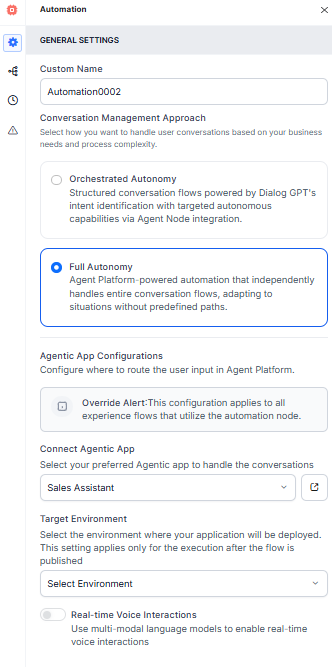
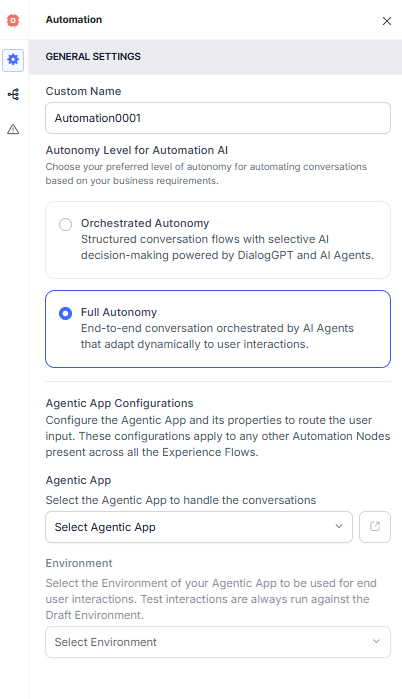
rn

diff --git a/docs/xo/release-notes/11.x/automation-ai.md b/docs/xo/release-notes/11.x/automation-ai.md
@@ -3,6 +3,56 @@
 This document provides information on the feature updates and enhancements introduced in **Automation AI** of AI for Service (XO) v11.x releases.
 
 
+
+## v11.15.0 June 30, 2025
+
+<u> Minor Release </u>
+
+<font size="4">DialogGPT</font>
+
+**Configurable Search AI Retrieval Settings**
+
+DialogGPT now allows users to configure chunk limits for Search AI retrieval, controlling the number of chunks sent to the language model for response generation. This feature optimizes token consumption and response times while providing precise control over the balance between context depth and performance.
+
+**Enhanced Discoverability for Automation Node Settings**
+
+The Automation Node’s routing settings have been relocated to Flow & Channels > Automation Routing > Routing Modes for better accessibility and visibility. This streamlined navigation enables users to quickly configure key settings, including Autonomy Level (Orchestrated Autonomy or Full Autonomy), Automation AI options, Agentic App Configurations, Connection Rules, and Error Prompts.
+
+**Batch Testing Now Supports Multi-App Routing for Universal Apps**
+
+The Batch Testing feature now supports multi-app routing, enabling users to evaluate conversational flows that span across multiple linked Virtual Assistants (apps). This enhancement aligns batch testing with real-world scenarios where conversations are dynamically routed. 
+
+**Enhancement of Batch Testing Public APIs to support creation and management of test suites**
+
+As part of the ongoing Batch Testing support for DialogGPT, several enhancements are being introduced to the public APIs. These changes ensure compatibility with new test formats, support for Universal Bots (Multi-App Routing), and maintain flexibility to handle both NLP-based and DialogGPT-based applications.
+
+<font size="4">Agent Transfer</font>
+
+**Salesforce MIAW Agent Integration Enhancements**
+
+The Salesforce MIAW Agent has been updated with new features to enhance live support experiences. These improvements aim to better prepare agents, empower end-users, and ensure consistent brand communication.
+
+Key enhancements
+
+* Metadata Transfer: Essential context, including usernames, conversation summaries, case IDs, and session details, is now automatically transferred from AI for Service to Salesforce during agent handoffs. This provides agents with immediate access to relevant information, reducing the need for users to repeat details and thereby accelerating issue resolution.
+
+* User-Controlled Session End: End-users can now conclude live agent sessions using a configurable keyword. This provides users with more control over their experience and helps reduce unnecessary agent occupancy.
+
+* Customizable Standard Responses: Default system messages displayed during handoffs and live chats, including wait times, agent join alerts, and session closure prompts, can now be customized. This ensures a consistent, branded experience aligned with user expectations.
+
+**User-Bot Conversation Summary for Live Agent Transfers**
+
+The Platform now enhances agent transfers by sending a conversation summary of the end-user and bot chat to the live agent during the transfer. This enhancement streamlines agent handoff by presenting a concise, GenAI-generated summary alongside the existing chat history link, eliminating the need for agents to navigate away from the chat window or open new pages to understand the conversation context.
+
+<font size="4">API</font>
+
+**Call ID Support in the getMessage API**
+
+To improve access to bot-user conversation history for voice interactions, the `getMessage` API now accepts `callId` as an optional query parameter, in addition to the existing `sessionId`. It aims to reduce latency and infrastructure load for high-volume customers who retrieve conversational data for analysis and auditing.
+
+
+<hr>
+
 ## v11.14.1 June 14, 2025
 
 <u> Patch Release </u>
@@ -1244,7 +1294,7 @@ Bookmarks allow users to organize and reference important information. Users can
 Add notes to highlight key points or summarize information. Notes can also be used for communication and feedback.  
 <img src="../images/xo-platform-AutomationAI-note.png" alt="Notes" title="Notes" style="border: 1px solid gray; zoom:70%;">
 
-<font size="4">Additional features in XO v11
+<font size="4">Additional features in XO v11</font>
 
 **Addition of Flows**
 

diff --git a/docs/xo/release-notes/11.x/platform-services.md b/docs/xo/release-notes/11.x/platform-services.md
@@ -2,6 +2,61 @@
 
 This document provides information on the feature updates and enhancements introduced in the **Platform Services** of AI for Service (XO) v11.x releases.
 
+## v11.15.0 June 30, 2025
+
+<u> Minor Release </u>
+
+<font size="4">Audit Logs</font>
+
+**Audit Logs for Agent Profile Updates**
+
+Enhanced the User Management audit logs to capture all agent profile-related actions, including create, update, delete, activate/deactivate, and role or privilege changes. Each log entry includes a timestamp, the user who performed the action, and the target user's details. The system also logs failed or unauthorized attempts. These updates improve traceability, support compliance, and ensure complete visibility into user management activities. Learn more.
+
+**App-to-App Communication Enabled for New Apps**
+
+App-to-app communication is now supported for newly created apps, enabling one app to call flows, dialogs, automation nodes, and script nodes from another. This allows the reuse of logic, such as queue or skill assignments, using functions like setQueue() or setSkill() across apps. They can be referenced from dialogs or scripts when designing flows in a different app.
+
+<font size="4">Getting Started</font>
+
+**Removal of auto purchase of Phone number in the App creation process**
+
+The automatic phone number provisioning feature, introduced during app creation, has been removed. Users will now have the flexibility to manually provide a phone number for voice channel testing if needed via the channel configuration section.
+
+Key benefits
+
+* Improves resource efficiency by provisioning phone numbers only when needed.
+* Simplifies the onboarding experience.
+
+
+<font size="4">Channels</font>
+
+**Retirement of Skype**
+
+Microsoft has officially retired the Skype channel. In alignment with this deprecation, the following changes are being implemented across the platform. 
+
+<font size="4">Rebranding</font>
+
+**Renaming of Platform Components**
+
+As part of the revised product strategy, the XO Platform is being repositioned as AI for Service, aligning it with the broader product suite (AI for Work and AI for Process). This change accurately reflects the platform’s core value proposition and enhances brand consistency across all products.
+
+<font size="4">APIs</font>
+
+**Support for Proactive Notifications for WhatsApp via Public API**
+
+The Proactive Notifications feature for WhatsApp has been enhanced to support multi-user messaging using a public API, enabling businesses to send outbound messages to multiple recipients simultaneously.
+
+Key features
+
+* Multi-user messaging in a single API call.
+* JWT-based authentication for secure access.
+* Per-client rate limiting for system stability.
+* Granular logging for improved tracking and debugging.
+
+
+
+<hr>
+
 ## v11.14.1 June 14, 2025
 
 <u> Patch Release </u>

diff --git a/docs/xo/app-settings/integrations/agents/configuring-the-salesforce-agent.md b/docs/xo/app-settings/integrations/agents/configuring-the-salesforce-agent.md
@@ -444,7 +444,7 @@ Follow these steps:
 
 
 
-1. Log in to Platform and navigate to **App Settings** > **Integrations** > **Agent Transfer** > **Chat** > **Salesforce**.
+1. Log in to Platform and navigate to App Settings > Integrations > Agent Transfer > Chat > Salesforce.
 2. On the Configurations tab, select **Messaging for In-App and Web(MIAW)** and enter the following credentials for the Salesforce Agent:
     * **Organization ID**: The Organization ID for Salesforce, copied before.
     * **Organization Base URL**: The Deployment ID for Salesforce, copied before.
@@ -457,7 +457,7 @@ Follow these steps:
     <img src="../images/miaw-metadata9.png" alt="Salesforce" title="Salesforce Metadata" style="border: 1px solid gray;zoom:80%;"/>
 
 
-3. Click **Save**.
+3. Click Save.
 4. Go to the Dialogflow and insert a Script Node before the Agent Transfer Node.
 5. Use the sample script to configure the metadata to be transferred in the key-value pair. 
 
@@ -530,17 +530,17 @@ Follow these steps:
 Follow these steps: 
 
 
-1. Navigate to **Process Automation > Flows**.
+1. Navigate to Process Automation > Flows.
 2. Locate and click the configured flow for the Messaging Channel, or create a new flow and configure it. 
    <img src="../images/miaw-metadata11.png" alt="Salesforce" title="Salesforce Metadata" style="border: 1px solid gray;zoom:80%;"/>
 
-3. In the Toolbox, click **New Resource**. Select the Resource Type, API Name, Data Type, and Availability Flow. Click **Done**.
+3. In the Toolbox, click New Resource. Select the Resource Type, API Name, Data Type, and Availability Flow. Click Done.
 
     !!! note
 
         Ensure the flow variable matches the API name of your custom Messaging Session field. This enables seamless metadata transfer from the Platform to Salesforce, providing agents with complete context. 
 
-4. Click **Update Records** and set the field values for the messaging session records.  
+4. Click Update Records and set the field values for the messaging session records.  
 <img src="../images/miaw-metadata4.png" alt="Salesforce" title="Salesforce Metadata" style="border: 1px solid gray;zoom:80%;"/>
 
-5. Save the updated record as a New version and then click **Activate**.
+5. Save the updated record as a New version and then click Activate.
